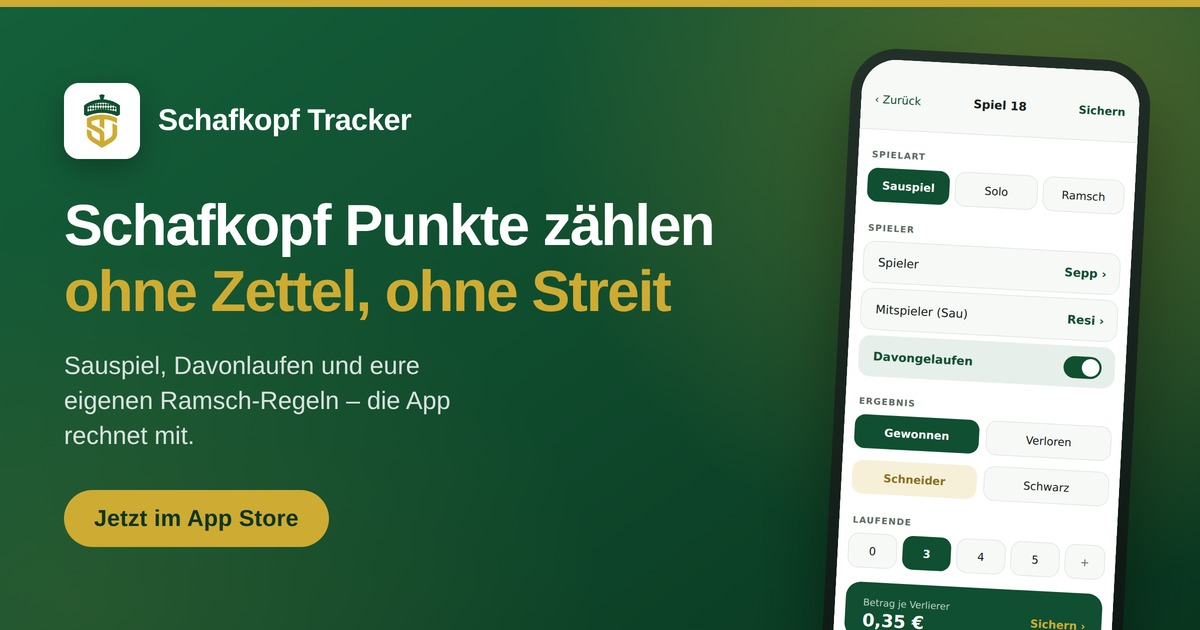
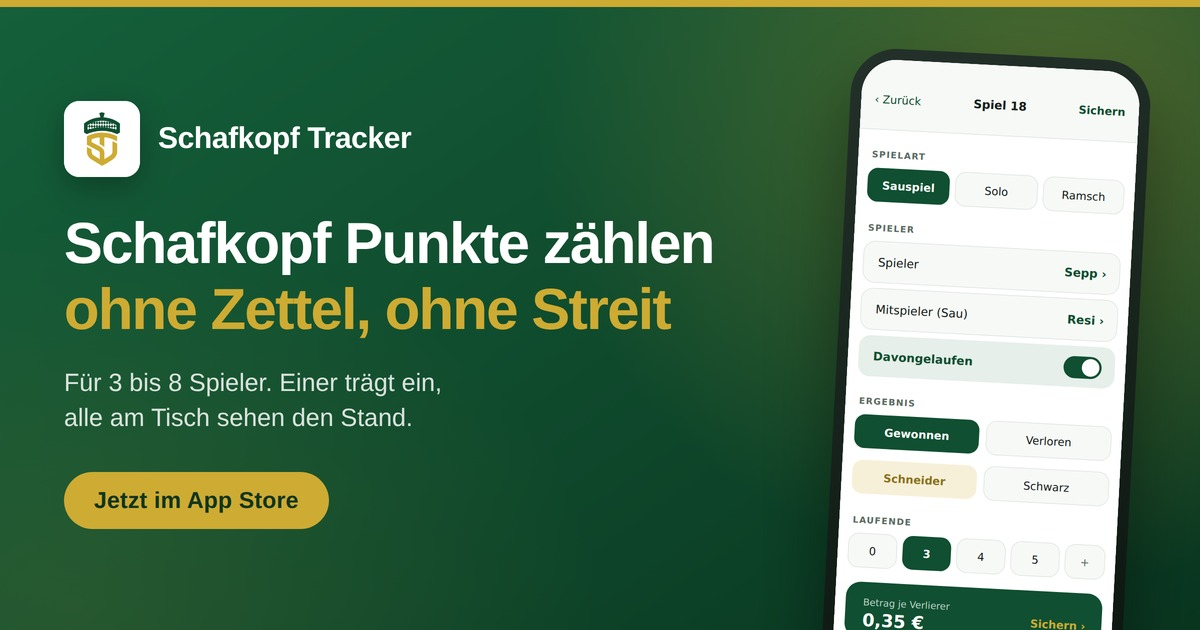
Texte auf die tatsächlichen Alleinstellungsmerkmale ausrichten
Ramsch-Regeln und Davonlaufen standen bisher in Claim, Subheadlines und
Meta-Description, obwohl sie Nischenthemen sind. Sie bleiben als Detail
im Fließtext und im JSON-LD erhalten, weil "Ramsch Regeln App" ein
Fokus-Keyword ist, tragen aber keine Headline mehr.

Nach vorne gerückt sind die drei Merkmale, die die App von anderen
Schafkopf-Rechnern abgrenzen:
- Runden ab 3 Spielern, wo andere Rechner mindestens vier verlangen
- Automatischer Sync: einer trägt ein, alle mit Konto sehen den Stand
- Moderne Oberfläche statt altmodisch wirkender Konkurrenz

Betroffen sind Meta-Description, Open-Graph- und Twitter-Texte, das
JSON-LD (description und featureList), Hero-Claim samt Faktenzeile, die
Gegenüberstellung, die Feature-Kacheln, die drei Schritte, der
Abschluss-CTA sowie das Social-Vorschaubild. Die Ramsch-Kachel weicht
einer Kachel zum Sync; im Platzhalter-Screenshot steht die Beispielrunde
jetzt auf sechs Spielern.

Claude-Session: https://claude.ai/code/session_01FufDSaHQtf5n61jLXndPj2

Changed region(s): [[0.0308, 0.1206, 0.6167, 0.5429], [0.0308, 0.573, 0.37, 0.8746]]

diff --git a/index.html b/index.html
@@ -6,8 +6,8 @@
 
   <!-- ===== SEO: Titel & Description (Haupt-Keyword vorne) ================= -->
   <title>Schafkopf App zum Punkte zählen &amp; abrechnen – Schafkopf Tracker</title>
-  <meta name="description" content="Schafkopf App für den bayerischen Stammtisch: Punkte zählen, automatisch abrechnen, Ramsch-Regeln frei einstellen. Schafkopf Tracker fürs iPhone – Sauspiel, Davonlaufen und Auswertung in Sekunden.">
-  <meta name="keywords" content="Schafkopf App, Schafkopf Punkte zählen, Schafkopf Rechner, Schafkopf Tracker, Sauspiel App, Ramsch Regeln App, Schafkopf Abrechnung, Stammtisch App">
+  <meta name="description" content="Schafkopf App für 3 bis 8 Spieler: Punkte zählen, automatisch abrechnen und den Stand per Sync auf jedem Handy am Tisch. Schafkopf Tracker fürs iPhone – modern gestaltet statt Zahlenkolonnen.">
+  <meta name="keywords" content="Schafkopf App, Schafkopf Punkte zählen, Schafkopf Rechner, Schafkopf Tracker, Sauspiel App, Ramsch Regeln App, Schafkopf Abrechnung, Stammtisch App, Schafkopf App mehrere Spieler">
   <meta name="author" content="Adrian Pomayr">
   <meta name="robots" content="index, follow, max-image-preview:large">
   <meta name="theme-color" content="#104f31">
@@ -23,7 +23,7 @@
   <meta property="og:locale" content="de_DE">
   <meta property="og:url" content="https://schafkopf-tracker.de/">
   <meta property="og:title" content="Schafkopf App zum Punkte zählen & abrechnen – Schafkopf Tracker">
-  <meta property="og:description" content="Der Schafkopf-Rechner für den Stammtisch: Sauspiel, Davonlaufen und eigene Ramsch-Regeln – Punkte eintragen, die Abrechnung erledigt sich von selbst.">
+  <meta property="og:description" content="Der Schafkopf-Rechner für 3 bis 8 Spieler: Einer trägt ein, alle am Tisch sehen den Stand auf dem eigenen Handy. Modern gestaltet und in Sekunden bedient.">
   <!-- Vorschaubild 1200 × 630; Quelle und Render-Skript unter assets/og/ -->
   <meta property="og:image" content="https://schafkopf-tracker.de/assets/og/og-image.jpg">
   <meta property="og:image:type" content="image/jpeg">
@@ -34,7 +34,7 @@
   <!-- ===== Twitter / X Card ============================================== -->
   <meta name="twitter:card" content="summary_large_image">
   <meta name="twitter:title" content="Schafkopf App zum Punkte zählen & abrechnen – Schafkopf Tracker">
-  <meta name="twitter:description" content="Der Schafkopf-Rechner für den Stammtisch: Sauspiel, Davonlaufen und eigene Ramsch-Regeln – Punkte eintragen, die Abrechnung erledigt sich von selbst.">
+  <meta name="twitter:description" content="Der Schafkopf-Rechner für 3 bis 8 Spieler: Einer trägt ein, alle am Tisch sehen den Stand auf dem eigenen Handy. Modern gestaltet und in Sekunden bedient.">
   <meta name="twitter:image" content="https://schafkopf-tracker.de/assets/og/og-image.jpg">
   <meta name="twitter:image:alt" content="Schafkopf Tracker – Schafkopf App zum Punkte zählen ohne Zettel, mit App-Icon und Eingabemaske für Sauspiel">
 
@@ -54,7 +54,7 @@
         "@id": "https://schafkopf-tracker.de/#app",
         "name": "Schafkopf Tracker",
         "alternateName": "Schafkopf App zum Punkte zählen",
-        "description": "Schafkopf App für den bayerischen Stammtisch: Spiele erfassen, Punkte zählen und automatisch abrechnen. Unterstützt Sauspiel, Davonlaufen sowie frei konfigurierbare Ramsch-Regeln mit eigenem Grundbetrag, Schneider- und Schwarz-Bonus.",
+        "description": "Schafkopf App für Runden von 3 bis 8 Spielern: Spiele erfassen, Punkte zählen und automatisch abrechnen. Wer ein Konto hat, bekommt jedes eingetragene Spiel automatisch auf das eigene Gerät synchronisiert. Unterstützt Sauspiel, Davonlaufen sowie frei konfigurierbare Ramsch-Regeln mit Grundbetrag, Schneider- und Schwarz-Bonus.",
         "applicationCategory": "GameApplication",
         "applicationSubCategory": "Schafkopf Rechner",
         "operatingSystem": "iOS",
@@ -69,11 +69,13 @@
           "https://schafkopf-tracker.de/assets/screenshots/platzhalter-auswertung.svg"
         ],
         "featureList": [
-          "Stammtisch-Verwaltung mit Treffen und bis zu 50 Runden pro Session",
-          "Schnelle Eingabe auf einem einzigen scrollbaren Bildschirm",
+          "Runden von 3 bis 8 Spielern – auch Dreierrunden werden abgerechnet",
+          "Automatischer Sync: alle Spieler mit Konto sehen jedes Spiel sofort auf dem eigenen Gerät",
+          "Moderne, in Sekunden bedienbare Oberfläche – ein Bildschirm, kein Tab-Wechsel",
+          "Verlauf und Auswertung je Spieler und Treffen",
+          "Stammtisch-Verwaltung mit bis zu 50 Runden pro Treffen",
           "Sauspiel inklusive Davonlaufen",
-          "Frei konfigurierbare Ramsch-Regeln mit Grundbetrag, Schneider- und Schwarz-Bonus",
-          "Verlauf und Auswertung je Spieler und Treffen"
+          "Frei konfigurierbare Ramsch-Regeln mit Grundbetrag, Schneider- und Schwarz-Bonus"
         ],
         "offers": {
           "@type": "Offer",
@@ -126,9 +128,9 @@
 
       <p class="claim">
         <strong class="highlight">Schafkopf Tracker</strong> ist der Schafkopf-Rechner
-        für deinen Stammtisch: Spiel eintragen, fertig. Sauspiel, Davonlaufen und
-        eure eigenen Ramsch-Regeln rechnet die App im Hintergrund ab – bis zu
-        50 Runden pro Abend.
+        für Runden von <strong class="highlight">3 bis 8 Spielern</strong>. Einer
+        trägt das Spiel ein – alle am Tisch haben den Stand sofort auf dem eigenen
+        Handy, ohne selbst zu tippen.
       </p>
 
       <div class="btn-gruppe">
@@ -147,8 +149,8 @@
       </p>
 
       <ul class="fakten">
-        <li>Sauspiel &amp; Davonlaufen</li>
-        <li>Eigene Ramsch-Regeln</li>
+        <li>3 bis 8 Spieler</li>
+        <li>Automatischer Sync</li>
         <li>Bis zu 50 Runden</li>
       </ul>
     </div>
@@ -176,7 +178,8 @@
         <p>
           Am Ende vom Abend sitzt einer da und addiert Spalten – und irgendwer
           rechnet garantiert anders. Schafkopf Tracker übernimmt das Punkte zählen
-          und die Abrechnung, damit ihr beim Spielen bleiben könnt.
+          und teilt den Stand mit allen am Tisch, damit ihr beim Spielen bleiben
+          könnt.
         </p>
       </div>
 
@@ -184,10 +187,10 @@
         <article class="karte karte-alt">
           <h3>Mit Zettel, Excel oder umständlicher App</h3>
           <ul class="liste">
-            <li><span class="zeichen" aria-hidden="true">✕</span> Am Ende des Abends alles per Hand zusammenrechnen</li>
-            <li><span class="zeichen" aria-hidden="true">✕</span> Streit, weil jeder eine andere Summe herausbekommt</li>
-            <li><span class="zeichen" aria-hidden="true">✕</span> Eure Hausregeln für Ramsch passen in kein Schema</li>
-            <li><span class="zeichen" aria-hidden="true">✕</span> Fünf Tabs durchklicken für ein einziges Spiel</li>
+            <li><span class="zeichen" aria-hidden="true">✕</span> Zu dritt geht gar nichts – die App verlangt mindestens vier Spieler</li>
+            <li><span class="zeichen" aria-hidden="true">✕</span> Nur einer führt Buch, alle anderen müssen nachfragen</li>
+            <li><span class="zeichen" aria-hidden="true">✕</span> Wer mitzählen will, tippt alles ein zweites Mal ins eigene Handy</li>
+            <li><span class="zeichen" aria-hidden="true">✕</span> Oberflächen, die aussehen wie vor fünfzehn Jahren</li>
             <li><span class="zeichen" aria-hidden="true">✕</span> Der Zettel vom letzten Mal liegt daheim in der Schublade</li>
           </ul>
         </article>
@@ -195,10 +198,10 @@
         <article class="karte karte-neu">
           <h3>Mit Schafkopf Tracker</h3>
           <ul class="liste">
-            <li><span class="zeichen" aria-hidden="true">✓</span> Der Kontostand steht nach jedem Spiel automatisch fest</li>
-            <li><span class="zeichen" aria-hidden="true">✓</span> Eine Abrechnung, auf die sich alle am Tisch verlassen</li>
-            <li><span class="zeichen" aria-hidden="true">✓</span> Ramsch-Regeln pro Stammtisch frei einstellbar</li>
-            <li><span class="zeichen" aria-hidden="true">✓</span> Ein Bildschirm, ein Griff – kein Tab-Wechsel beim Geben</li>
+            <li><span class="zeichen" aria-hidden="true">✓</span> Schon ab 3 Spielern – und bis zu 8, wenn die Runde größer wird</li>
+            <li><span class="zeichen" aria-hidden="true">✓</span> Einer trägt ein, alle mit Konto sehen den Stand automatisch</li>
+            <li><span class="zeichen" aria-hidden="true">✓</span> Kein doppeltes Eintippen und keine Nachfragen mehr</li>
+            <li><span class="zeichen" aria-hidden="true">✓</span> Aufgeräumte Oberfläche, die man ohne Erklärung bedient</li>
             <li><span class="zeichen" aria-hidden="true">✓</span> Jedes Treffen bleibt gespeichert und ist jederzeit abrufbar</li>
           </ul>
         </article>
@@ -215,8 +218,8 @@
         <span class="eyebrow">Funktionen</span>
         <h2>Alles, was ein Schafkopf-Rechner können muss</h2>
         <p>
-          Gebaut für den Wirtshaustisch: schnell zu bedienen, auch wenn schon
-          wieder gegeben wird.
+          Gebaut für den Wirtshaustisch: für jede Rundengröße, für alle am Tisch
+          und schnell zu bedienen, auch wenn schon wieder gegeben wird.
         </p>
       </div>
 
@@ -229,25 +232,28 @@
               <path d="M20 20v-1.5a3.5 3.5 0 0 0-2.6-3.4M15.5 4.6a3.2 3.2 0 0 1 0 5.9"/>
             </svg>
           </div>
-          <h3>Stammtisch-Verwaltung</h3>
+          <h3>3 bis 8 Spieler</h3>
           <p>
-            Lege deine Runde einmal an – mit Spielern, Tarif und Hausregeln. Jedes
-            Treffen fasst bis zu 50 Spiele und bleibt dauerhaft gespeichert.
+            Viele Schafkopf-Rechner verlangen mindestens vier Spieler. Hier
+            reichen drei – und bis zu acht sind möglich, wenn zwischendurch
+            jemand aussetzt oder dazukommt.
           </p>
         </article>
 
         <article class="feature">
           <div class="feature-icon" aria-hidden="true">
             <svg width="24" height="24" viewBox="0 0 24 24" fill="none" stroke="currentColor" stroke-width="1.9" stroke-linecap="round" stroke-linejoin="round">
-              <rect x="4" y="3" width="16" height="18" rx="3"/>
-              <path d="M8 8h8M8 12h4M8 16h6"/>
+              <path d="M20 11.5a7.5 7.5 0 0 0-13.4-3.3"/>
+              <path d="M4 12.5a7.5 7.5 0 0 0 13.4 3.3"/>
+              <path d="M6.4 4.6v3.6H10"/>
+              <path d="M17.6 19.4v-3.6H14"/>
             </svg>
           </div>
-          <h3>Flexible Ramsch-Regeln</h3>
+          <h3>Alle am Tisch synchron</h3>
           <p>
-            Grundbetrag, Schneider- und Schwarz-Bonus stellst du pro Stammtisch
-            selbst ein. So rechnet die App genau so ab, wie ihr es seit Jahren
-            handhabt.
+            Einer trägt das Spiel ein, alle Mitspieler mit Konto bekommen es
+            automatisch aufs eigene Gerät. Niemand tippt doppelt, niemand muss
+            nach dem Stand fragen.
           </p>
         </article>
 
@@ -257,11 +263,11 @@
               <path d="M13 2.5 4.5 13.5H11l-.8 8 8.4-11H12l1-8Z"/>
             </svg>
           </div>
-          <h3>Schnelle Eingabe</h3>
+          <h3>Moderne Bedienung</h3>
           <p>
-            Ein einziger scrollbarer Bildschirm: Spielart wählen, Spieler tippen,
-            Ergebnis setzen. Sauspiel und Davonlaufen inklusive – ganz ohne
-            Tab-Wechsel.
+            Kein Menü-Labyrinth aus den Nullerjahren: ein einziger scrollbarer
+            Bildschirm für Spielart, Spieler und Ergebnis – Sauspiel und
+            Davonlaufen inklusive.
           </p>
         </article>
 
@@ -276,7 +282,8 @@
           <h3>Verlauf &amp; Auswertung</h3>
           <p>
             Wer liegt vorn, wer zahlt drauf? Der Verlauf zeigt jedes Spiel, den
-            Kontostand pro Spieler und die Bilanz über alle Treffen hinweg.
+            Kontostand pro Spieler und die Bilanz über alle Treffen – bis zu
+            50 Runden pro Abend.
           </p>
         </article>
       </div>
@@ -307,7 +314,7 @@
         <figure class="shot">
           <div class="phone">
             <img src="/assets/screenshots/platzhalter-stammtisch.svg" width="390" height="844" loading="lazy" decoding="async"
-                 alt="Stammtisch-Übersicht der Schafkopf App mit Tabelle und Kontostand aller vier Spieler">
+                 alt="Stammtisch-Übersicht der Schafkopf App mit Tabelle und Kontostand aller Spieler der Runde">
           </div>
           <figcaption>
             <strong>Dein Stammtisch</strong>
@@ -355,8 +362,9 @@
         <li class="schritt">
           <h3>Stammtisch anlegen</h3>
           <p>
-            Namen der Mitspieler eintragen, Tarif festlegen und die Ramsch-Regeln
-            eurer Runde einstellen – Grundbetrag, Schneider- und Schwarz-Bonus.
+            Drei bis acht Mitspieler eintragen, Tarif festlegen, fertig. Wer ein
+            Konto hat, tritt dem Stammtisch bei und ist ab sofort automatisch
+            dabei. Hausregeln für Ramsch stellt ihr hier ebenfalls ein.
           </p>
         </li>
         <li class="schritt">
@@ -370,8 +378,9 @@
         <li class="schritt">
           <h3>Auswertung sehen</h3>
           <p>
-            Der Kontostand aktualisiert sich sofort. Am Ende des Treffens steht
-            die Abrechnung – und der Verlauf bleibt fürs nächste Mal gespeichert.
+            Der Kontostand aktualisiert sich sofort – auf jedem Handy am Tisch.
+            Am Ende des Treffens steht die Abrechnung, der Verlauf bleibt fürs
+            nächste Mal gespeichert.
           </p>
         </li>
       </ol>
@@ -386,8 +395,9 @@
       <div class="cta-block">
         <h2>Der nächste Spielabend – ohne Zettel</h2>
         <p>
-          Schafkopf Tracker gibt es jetzt im App Store: kostenlos starten,
-          zusätzliche Funktionen optional.
+          Für Runden von 3 bis 8 Spielern, mit automatischem Sync für alle am
+          Tisch. Jetzt im App Store: kostenlos starten, zusätzliche Funktionen
+          optional.
         </p>
 
         <div class="btn-gruppe">

diff --git a/assets/og/og-vorlage.html b/assets/og/og-vorlage.html
@@ -150,7 +150,7 @@
     <h1>Schafkopf Punkte&nbsp;zählen<em>ohne Zettel, ohne Streit</em></h1>
 
     <p class="unter">
-      Sauspiel, Davonlaufen und eure eigenen Ramsch-Regeln – die App rechnet mit.
+      Für 3 bis 8 Spieler. Einer trägt ein, alle am Tisch sehen den Stand.
     </p>
 
     <span class="badge">Jetzt im App&nbsp;Store</span>
